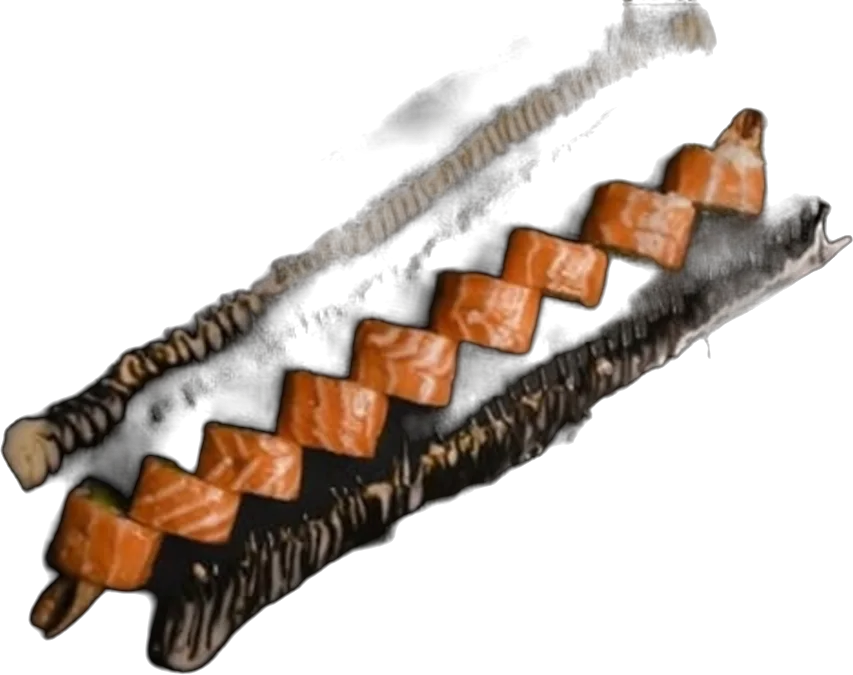
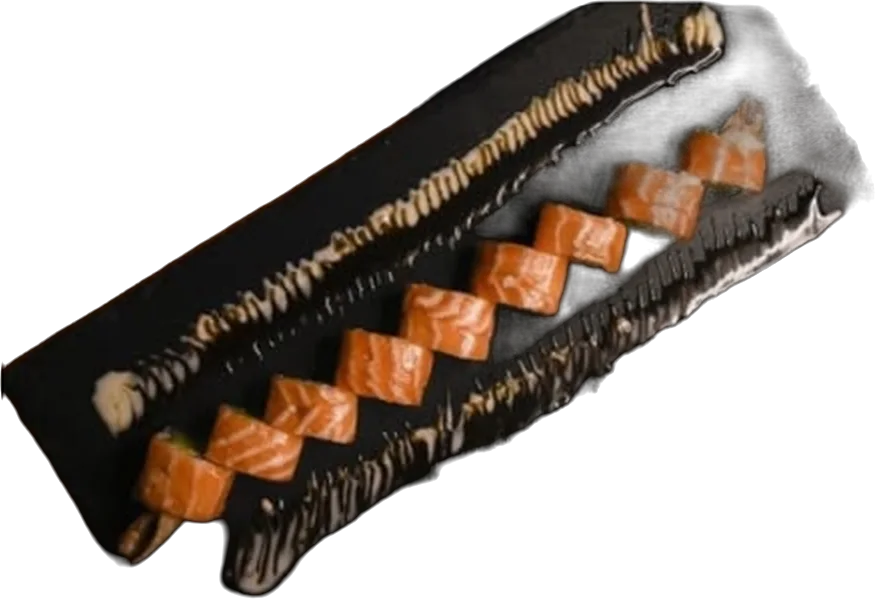
Use the cleaner Outlaw Dragon cut-out in the hero and link preview
Claude-Session: https://claude.ai/code/session_018rDWpLoDAViPk3cSC6e1Zj

diff --git a/outlaw/src/sections/Hero.tsx b/outlaw/src/sections/Hero.tsx
@@ -83,7 +83,7 @@ export default function Hero() {
             onClick={() => open(dish.id)}
             aria-label={`${dish.name}, ${formatPrice(dish.price ?? 0)}. Open details`}
           >
-            <img src={asset('img/cut/outlaw-dragon.webp')} alt="" width="853" height="675" fetchPriority="high" />
+            <img src={asset('img/cut/outlaw-dragon.webp')} alt="" width="876" height="599" fetchPriority="high" />
           </motion.button>
           <motion.p className="hero__caption" initial={{ opacity: 0, x: -10 }} animate={{ opacity: 1, x: 0 }} transition={{ delay: 1.2 }}>
             <span className="mark">On the plate</span>
